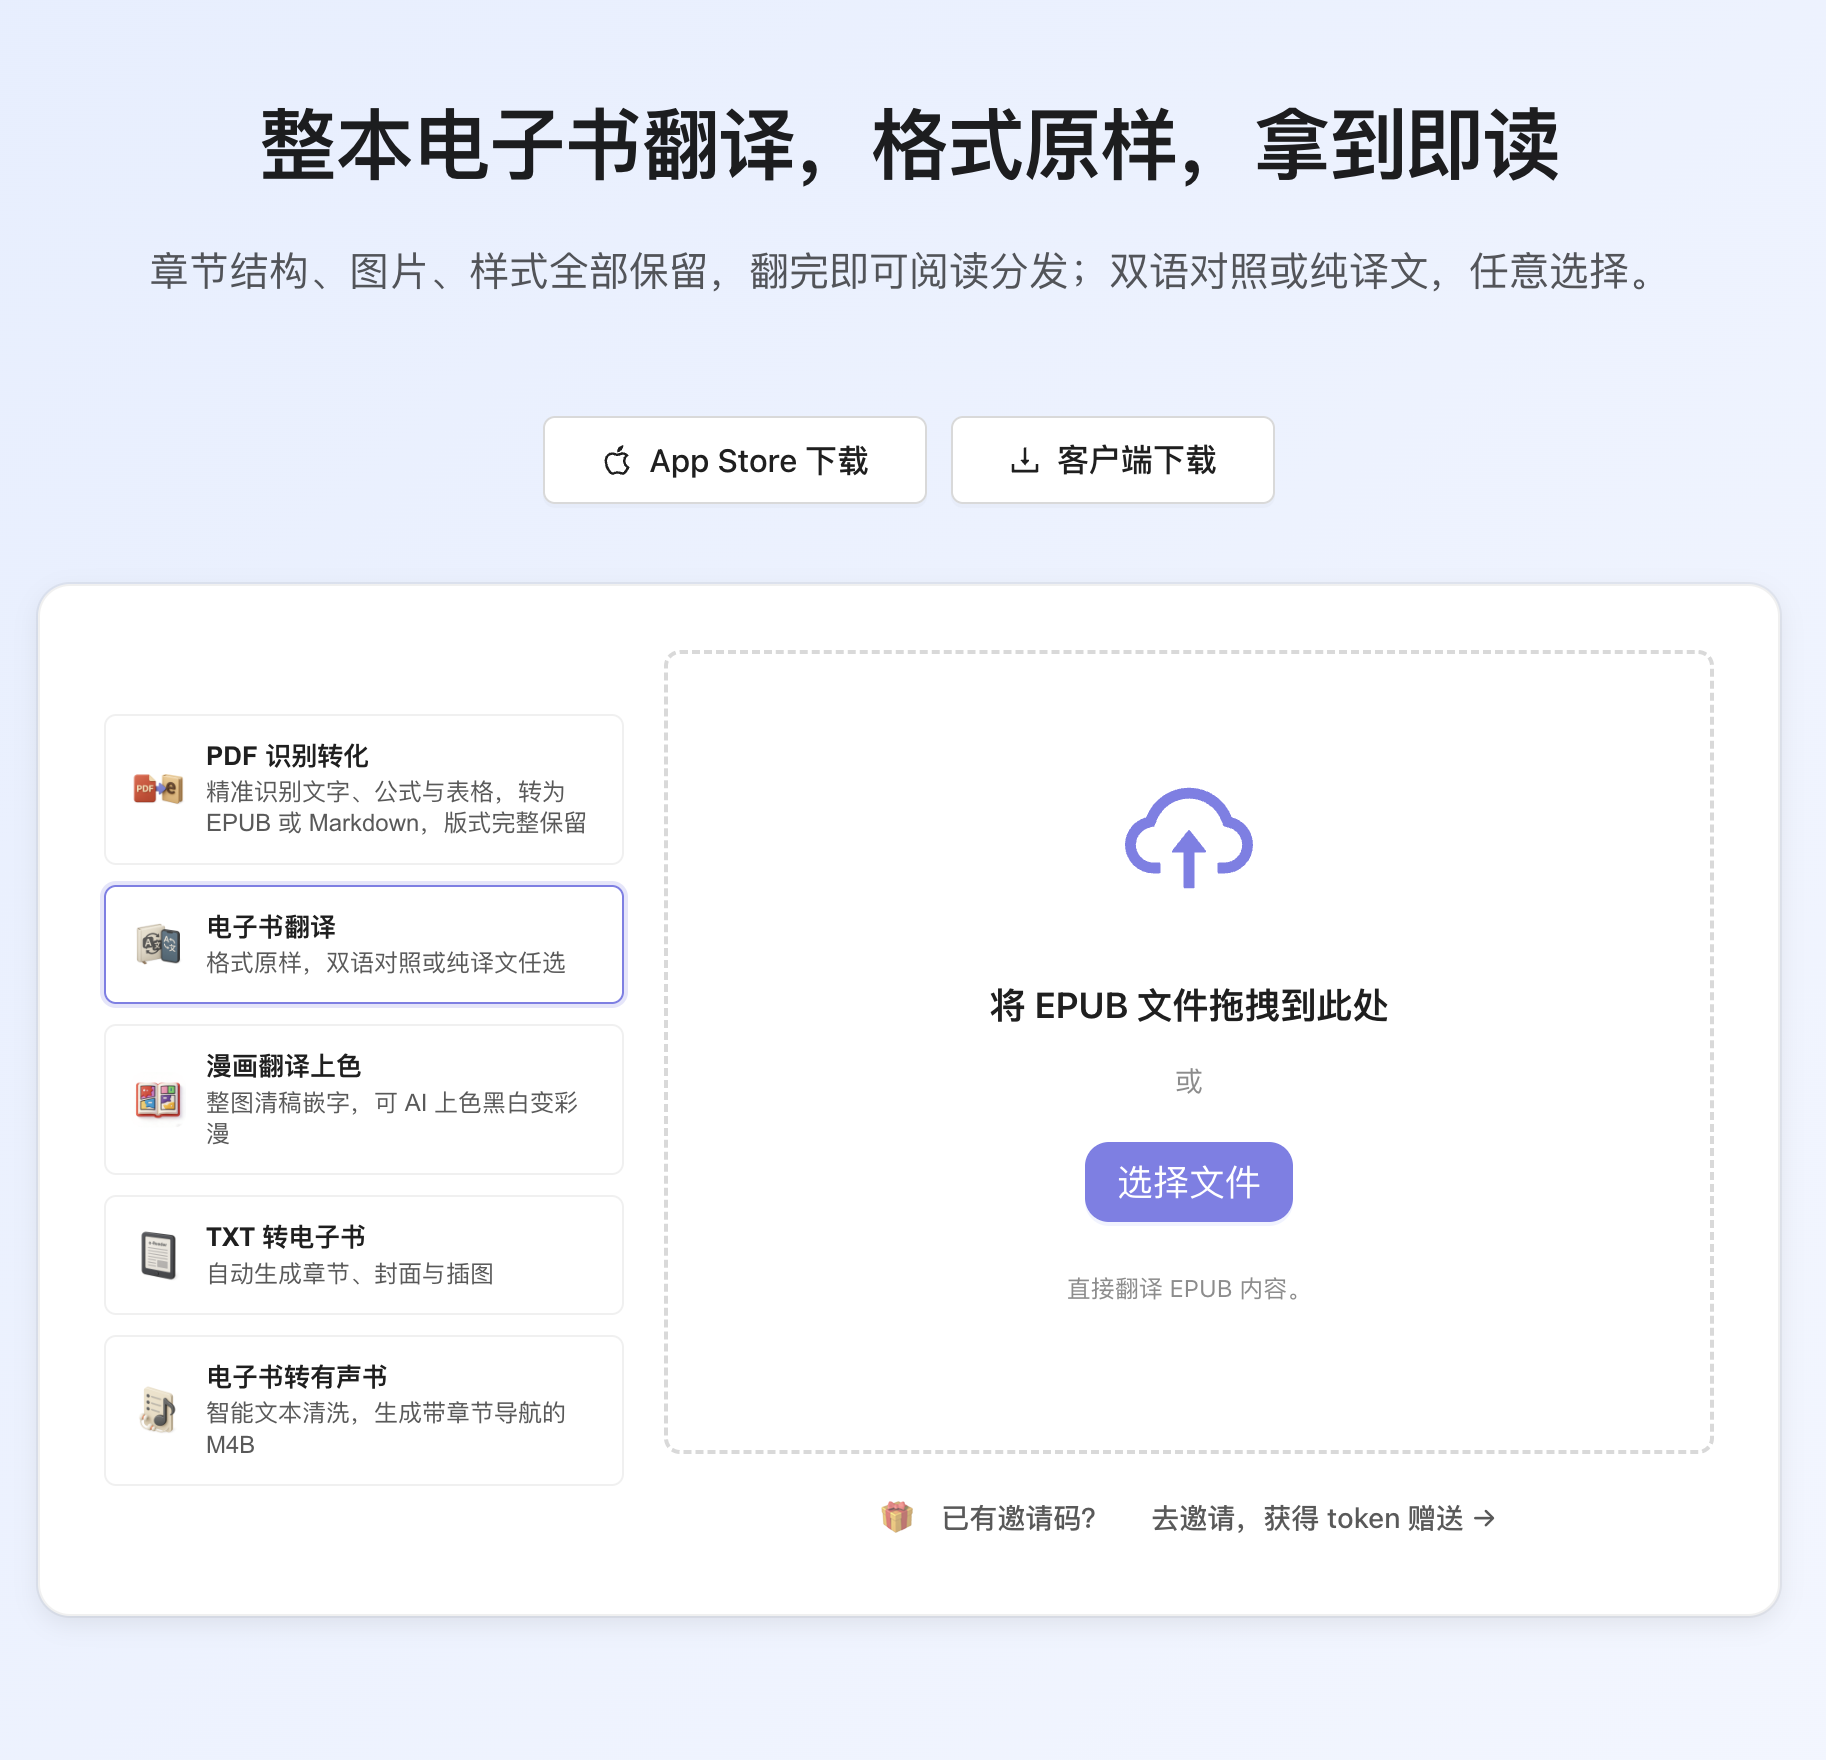
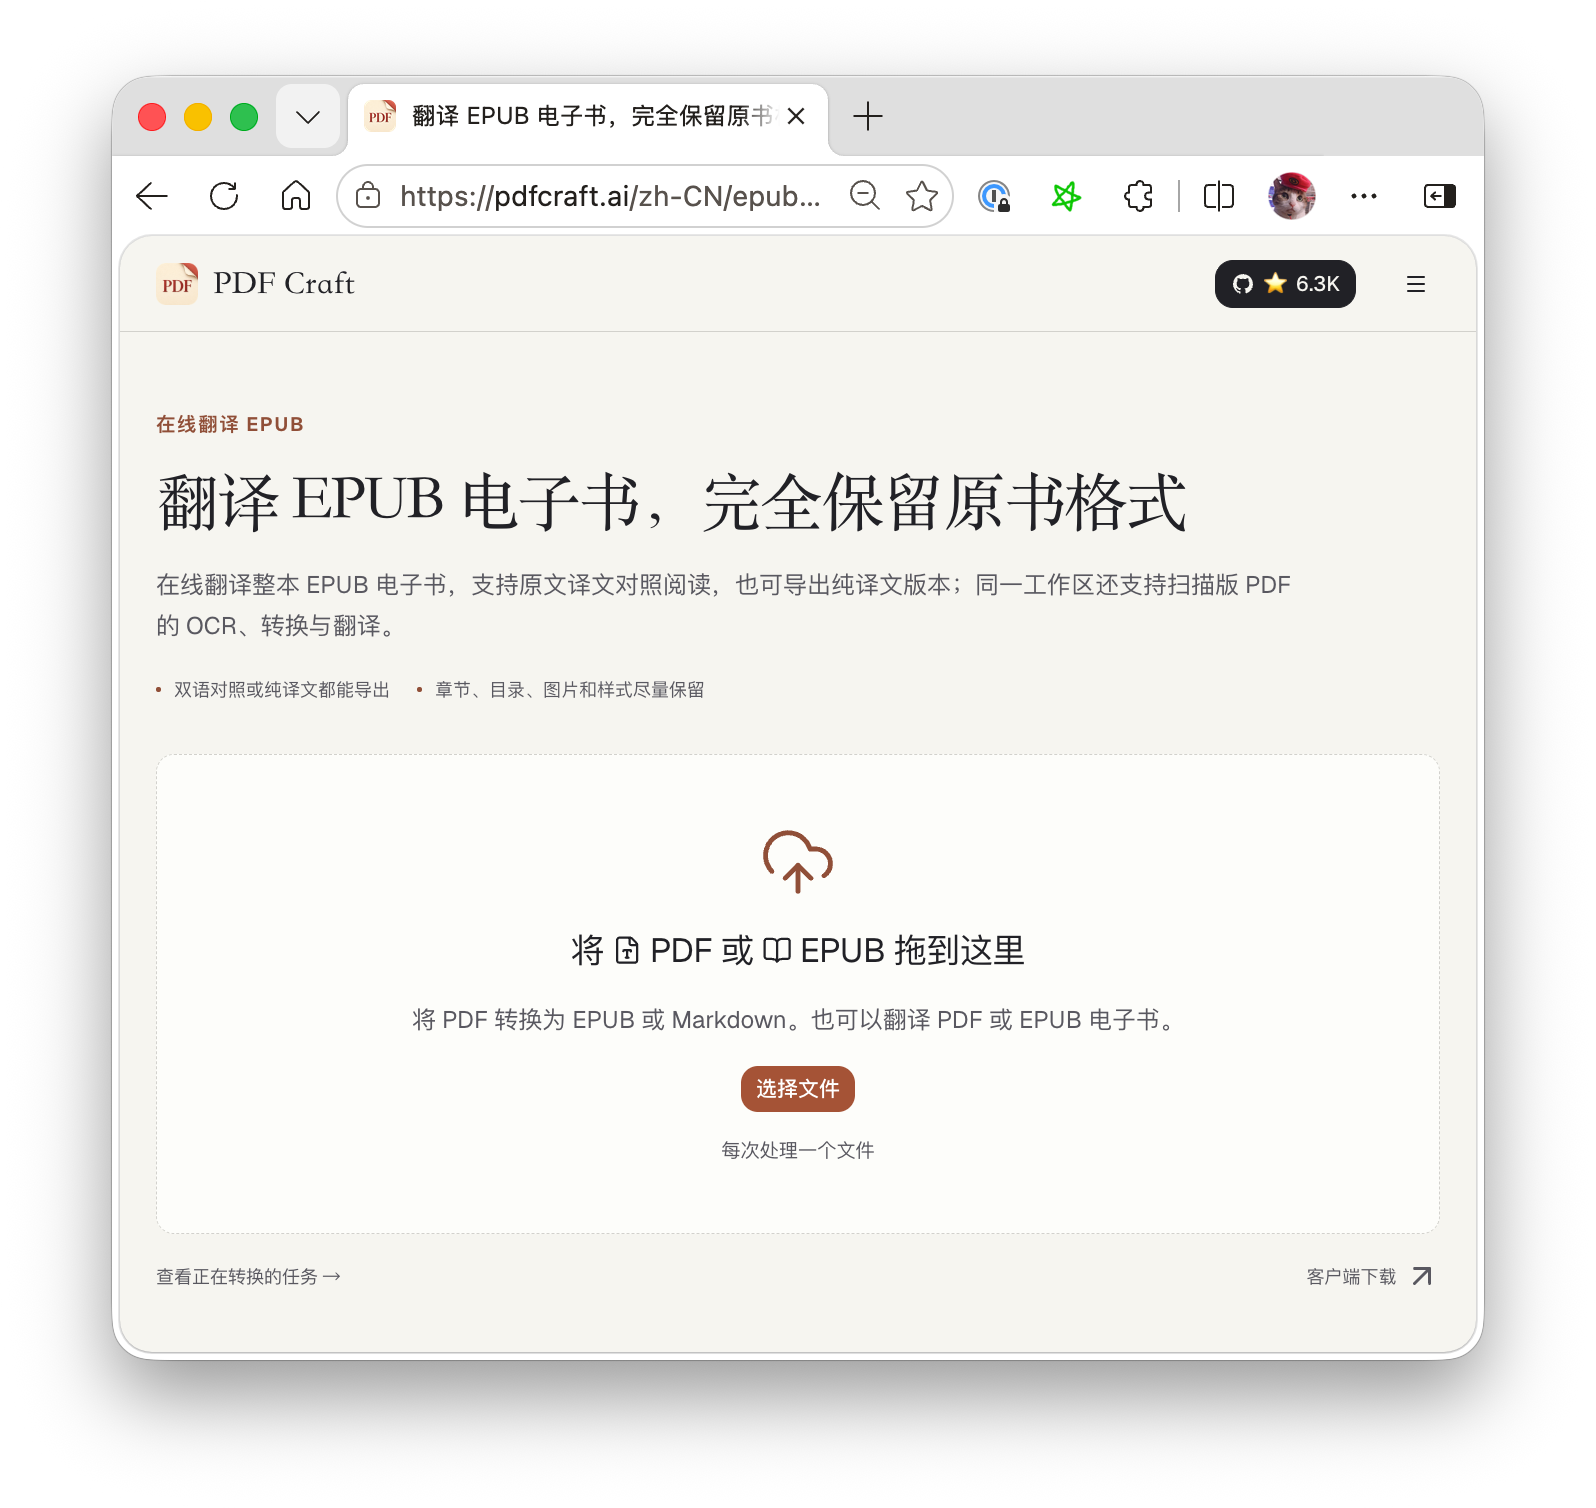
upgrade to pdfcraft.ai (#146)

diff --git a/README.md b/README.md
@@ -20,9 +20,9 @@ Whether you're learning a new language, conducting academic research, or simply 
 
 ### Online Version
 
-If you'd like to try EPUB Translator without setting it up locally, you can use [EPUB Translator](https://pdf.oomol.com/epub-translator), the official online app for the same bilingual EPUB translation workflow. It lets you upload an EPUB file and try the main experience directly in your browser.
+If you'd like to try EPUB Translator without setting it up locally, you can use [EPUB Translator](https://pdfcraft.ai/epub-translator), the official online app for the same bilingual EPUB translation workflow. It lets you upload an EPUB file and try the main experience directly in your browser.
 
-[![EPUB Translator Online Version](docs/images/online-en.png)](https://pdf.oomol.com/epub-translator)
+[![EPUB Translator Online Version](docs/images/online-en.png)](https://pdfcraft.ai/epub-translator)
 
 ## Installation
 
@@ -494,4 +494,4 @@ This project is licensed under the MIT License - see the [LICENSE](LICENSE) file
 ## Support
 
 - **Issues**: [GitHub Issues](https://github.com/oomol-lab/epub-translator/issues)
-- **Online App**: [Inkora - EPUB Translator](https://pdf.oomol.com/epub-translator)
+- **Online App**: [Inkora - EPUB Translator](https://pdfcraft.ai/epub-translator)

diff --git a/README_zh-CN.md b/README_zh-CN.md
@@ -20,9 +20,9 @@
 
 ### 在线版本
 
-如果你希望在不进行本地安装的情况下体验 EPUB Translator，可以试试 [EPUB Translator](https://pdf.oomol.com/epub-translator)，这是一个基于相同双语 EPUB 翻译流程构建的正式在线应用。你可以直接上传 EPUB 文件，在浏览器中体验主要功能。
+如果你希望在不进行本地安装的情况下体验 EPUB Translator，可以试试 [EPUB Translator](https://pdfcraft.ai/epub-translator)，这是一个基于相同双语 EPUB 翻译流程构建的正式在线应用。你可以直接上传 EPUB 文件，在浏览器中体验主要功能。
 
-[![EPUB Translator 在线版本](docs/images/online-cn.png)](https://pdf.oomol.com/epub-translator)
+[![EPUB Translator 在线版本](docs/images/online-cn.png)](https://pdfcraft.ai/epub-translator)
 
 ## 安装
 
@@ -494,4 +494,4 @@ print(f"总计: {translation_llm.total_tokens + fill_llm.total_tokens}")
 ## 支持
 
 - **问题反馈**: [GitHub Issues](https://github.com/oomol-lab/epub-translator/issues)
-- **在线版本**: [Inkora - EPUB Translator](https://pdf.oomol.com/epub-translator)
+- **在线版本**: [Inkora - EPUB Translator](https://pdfcraft.ai/epub-translator)
